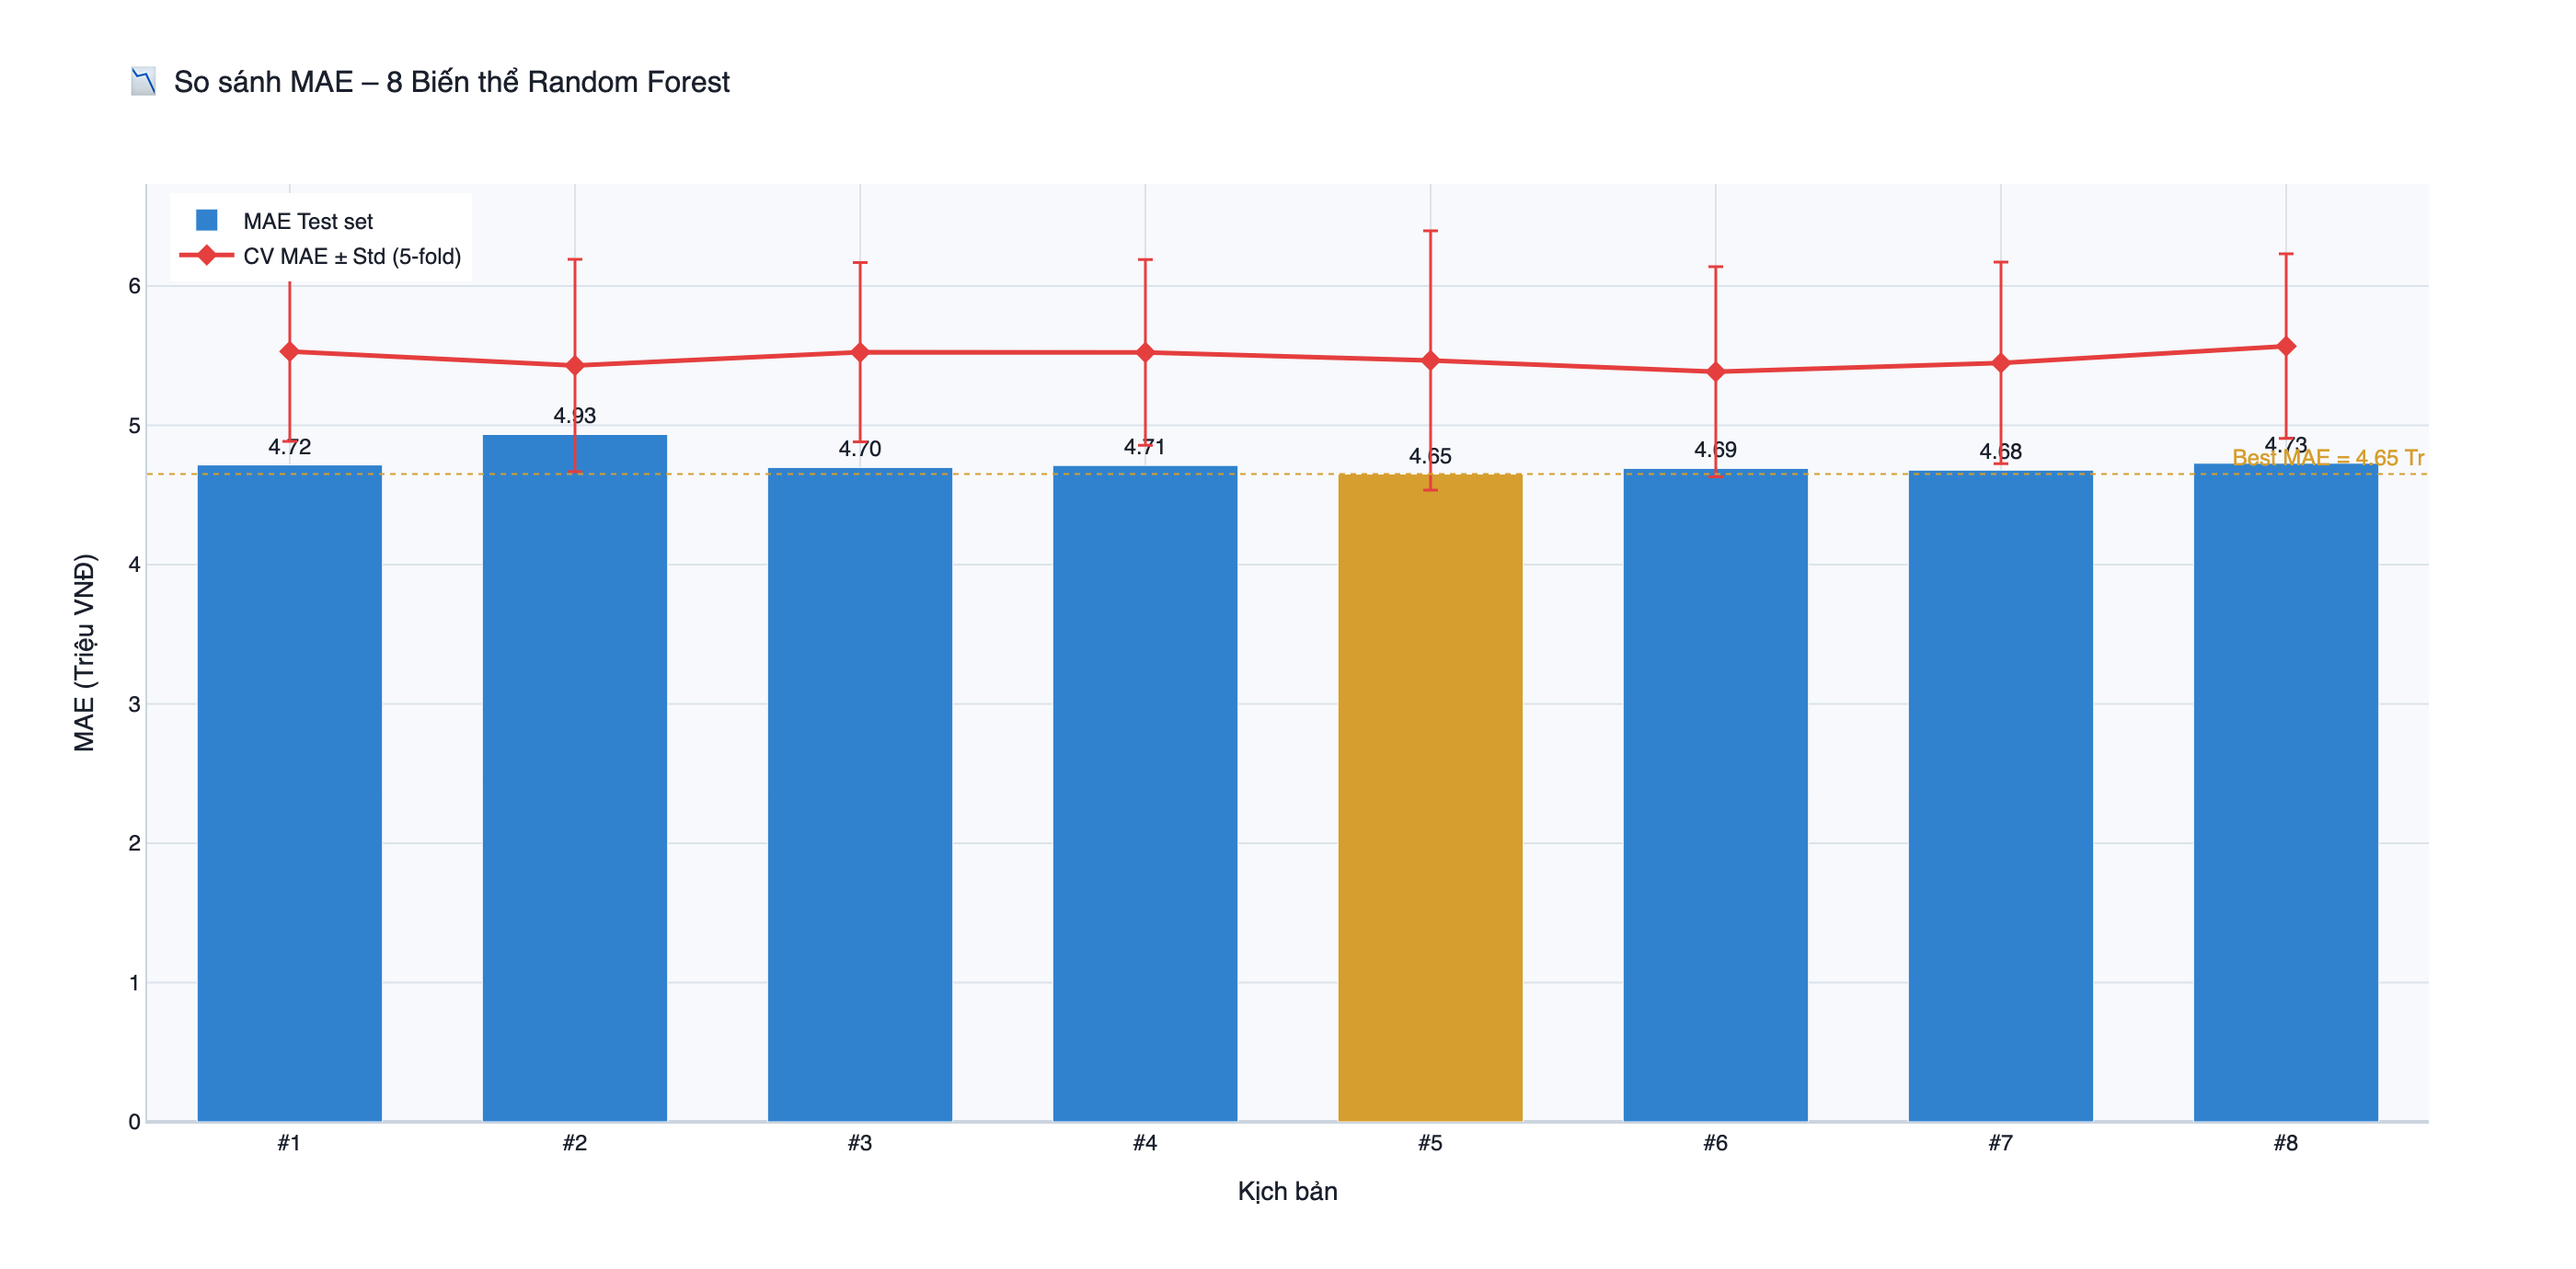
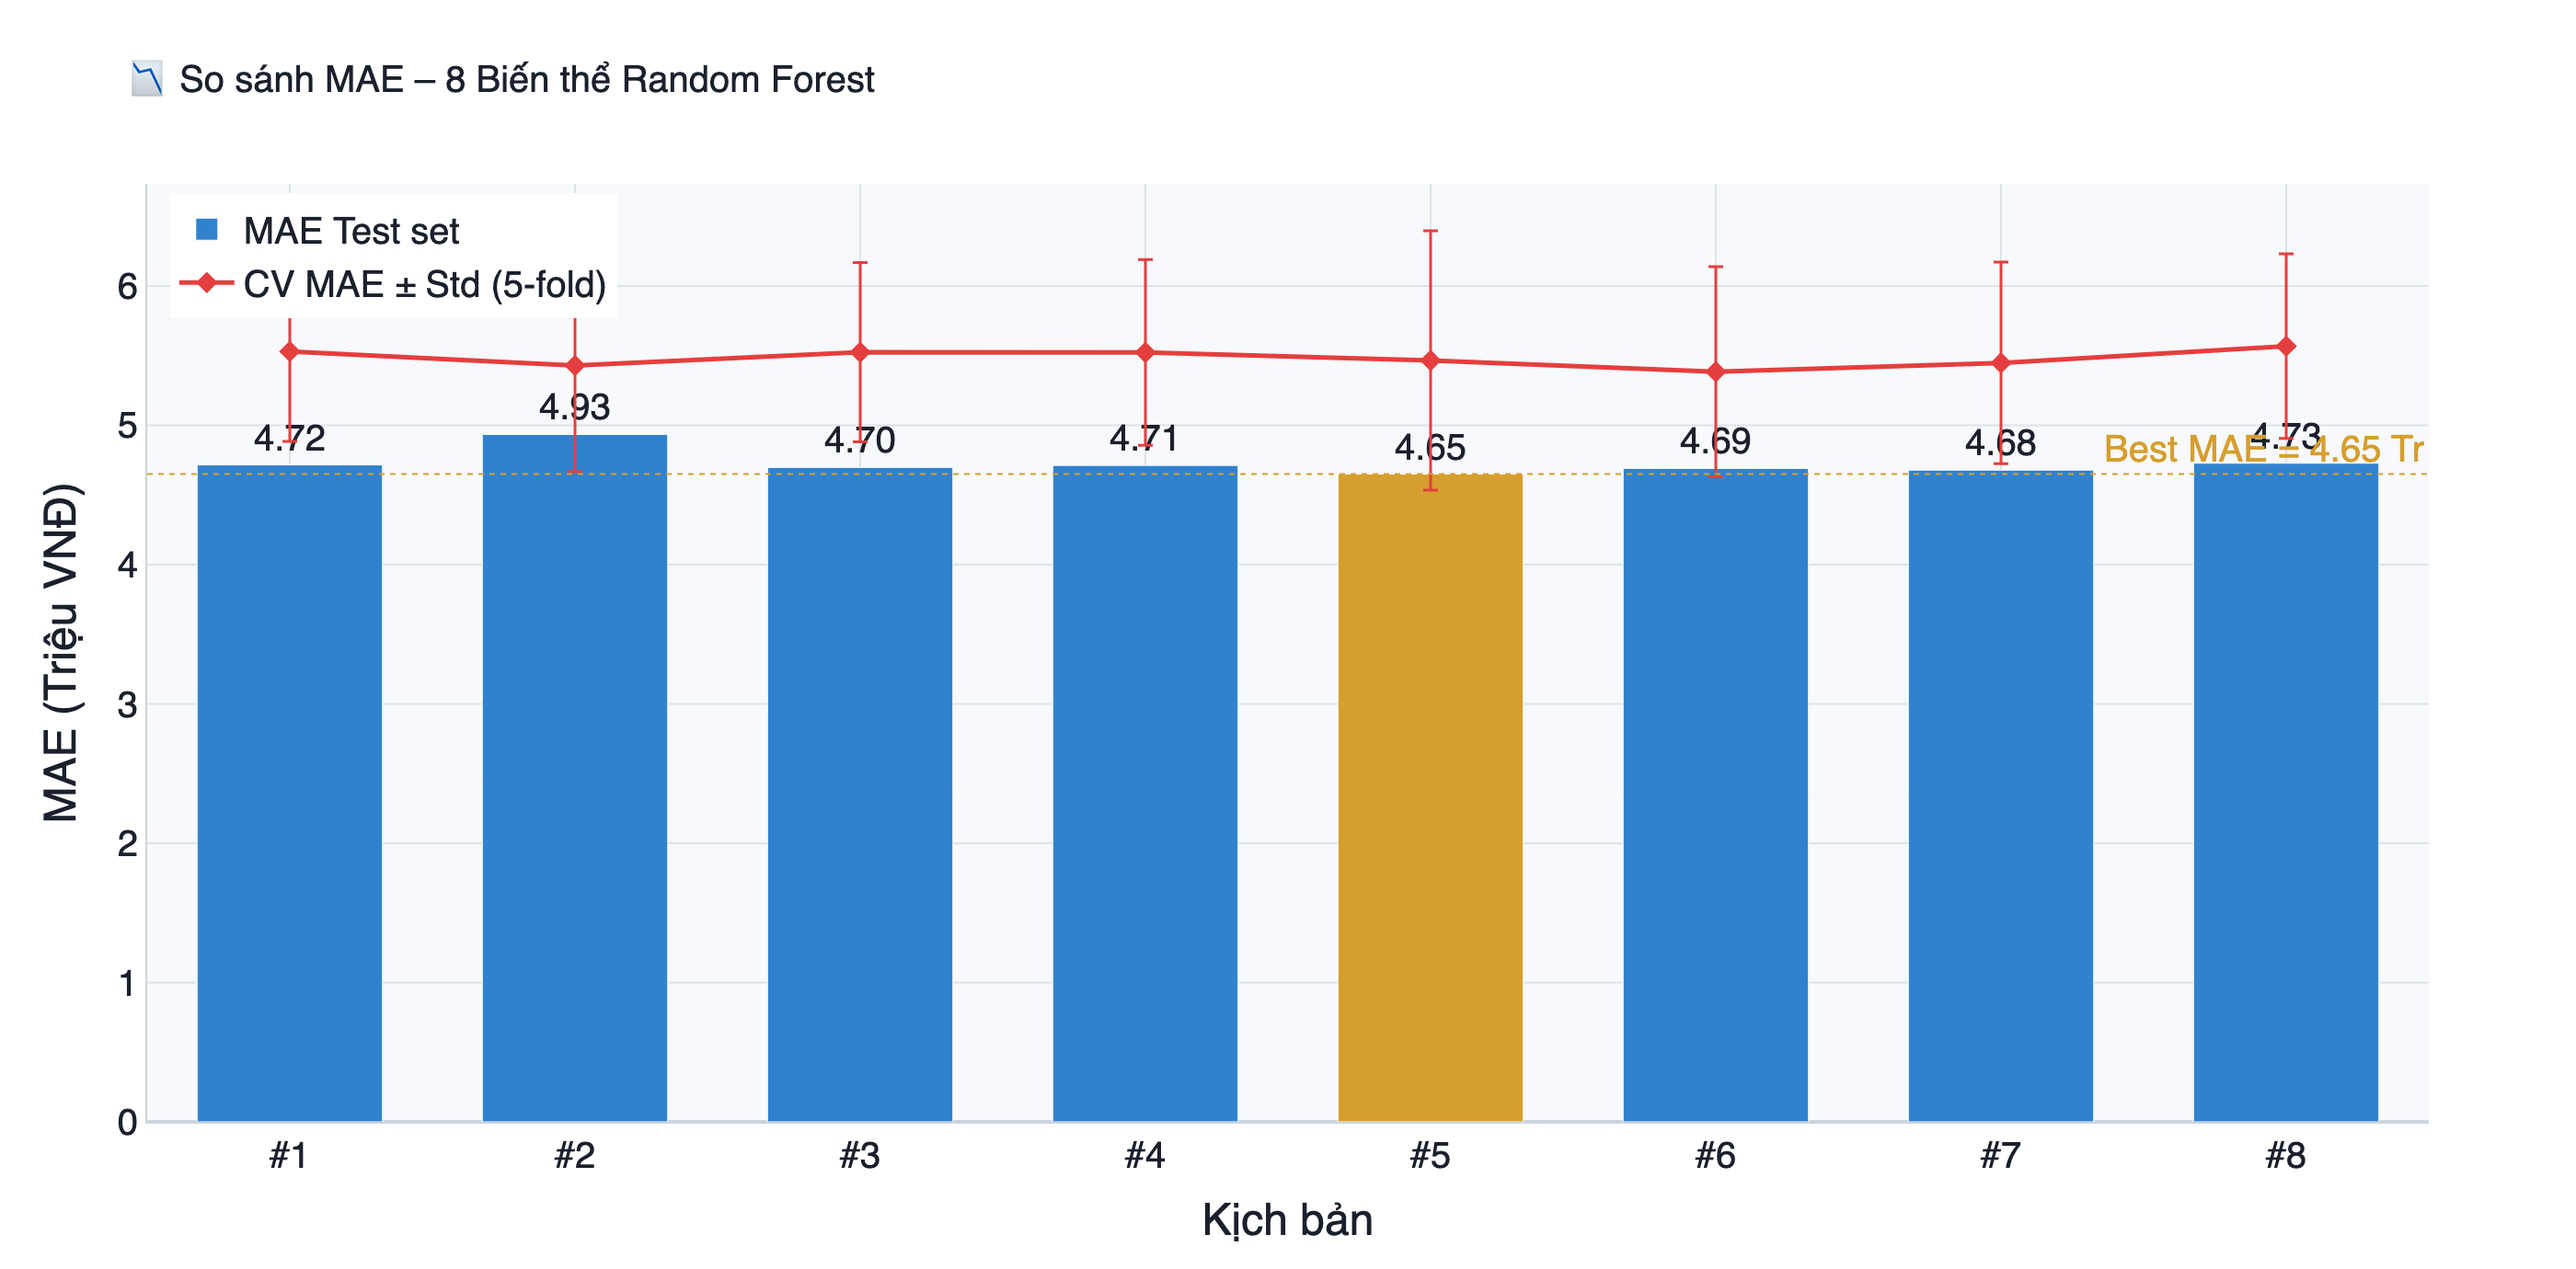
update

diff --git a/modules/model_gen_charts.py b/modules/model_gen_charts.py
@@ -35,7 +35,7 @@ from plotly.subplots import make_subplots
 # ─── Palette trắng / sáng ──────────────────────────────────────────────────────────────────────────────
 _PAPER_BG  = "#ffffff"
 _PLOT_BG   = "#f7f9fc"
-_FONT      = dict(color="#1a202c", family="Inter, sans-serif")
+_FONT      = dict(color="#1a202c", family="Inter, sans-serif", size=20)
 _BLUE      = "#3182ce"
 _GOLD      = "#d69e2e"
 _GREEN     = "#38a169"
@@ -120,7 +120,7 @@ def plot_mae_comparison(results: list[dict], best_result: dict) -> go.Figure:
 
     fig.update_layout(
         **_base_layout(height=460),
-        title=dict(text="📉 So sánh MAE – 8 Biến thể Random Forest", font=dict(size=16)),
+        title=dict(text="📉 So sánh MAE – 8 Biến thể Random Forest", font=dict(size=20)),
         xaxis_title="Kịch bản",
         yaxis_title="MAE (Triệu VNĐ)",
         legend=dict(x=0.01, y=0.99),
@@ -155,7 +155,7 @@ def plot_r2_comparison(results: list[dict], best_result: dict) -> go.Figure:
 
     fig.update_layout(
         **_base_layout(height=400),
-        title=dict(text="📈 Hệ số R² (%) – Khả năng giải thích phương sai giá", font=dict(size=16)),
+        title=dict(text="📈 Hệ số R² (%) – Khả năng giải thích phương sai giá", font=dict(size=20)),
         xaxis_title="Kịch bản",
         yaxis_title="R² (%)",
         yaxis=dict(range=[0, 115]),
@@ -192,7 +192,7 @@ def plot_mape_comparison(results: list[dict], best_result: dict) -> go.Figure:
 
     fig.update_layout(
         **_base_layout(height=400),
-        title=dict(text="📉 Sai số phần trăm tương đối trung bình MAPE (%) – 8 Biến thể", font=dict(size=16)),
+        title=dict(text="📉 Sai số phần trăm tương đối trung bình MAPE (%) – 8 Biến thể", font=dict(size=20)),
         xaxis_title="Kịch bản",
         yaxis_title="MAPE (%)",
         bargap=0.35,
@@ -270,7 +270,7 @@ def plot_actual_vs_predicted(
     title_suffix = f" – {scenario_name}" if scenario_name else ""
     fig.update_layout(
         **_base_layout(height=430),
-        title=dict(text=f"🎯 Actual vs Predicted{title_suffix}", font=dict(size=16)),
+        title=dict(text=f"🎯 Actual vs Predicted{title_suffix}", font=dict(size=20)),
         xaxis_title="Giá thực tế (Triệu VNĐ)",
         yaxis_title="Giá dự đoán (Triệu VNĐ)",
         legend=dict(x=0.01, y=0.99),
@@ -322,7 +322,7 @@ def plot_feature_importance(
     title_suffix = f" – {scenario_name}" if scenario_name else ""
     fig.update_layout(
         **_base_layout(height=380),
-        title=dict(text=f"🌿 Feature Importance{title_suffix}", font=dict(size=16)),
+        title=dict(text=f"🌿 Feature Importance{title_suffix}", font=dict(size=20)),
         xaxis_title="Mức độ quan trọng",
         annotations=[dict(
             x=0.99, y=0.02, xref="paper", yref="paper",
@@ -374,7 +374,7 @@ def plot_residuals(
     title_suffix = f" – {scenario_name}" if scenario_name else ""
     fig.update_layout(
         **_base_layout(height=380),
-        title=dict(text=f"📊 Phân phối Sai số (Residuals){title_suffix}", font=dict(size=16)),
+        title=dict(text=f"📊 Phân phối Sai số (Residuals){title_suffix}", font=dict(size=20)),
         xaxis_title="Sai số dự đoán (Triệu VNĐ)",
         yaxis_title="Số lượng laptop",
         showlegend=False,
@@ -445,7 +445,7 @@ def plot_learning_curve(df, test_size: float = 0.2) -> go.Figure:
 
     fig.update_layout(
         **_base_layout(height=420),
-        title=dict(text="📈 Learning Curve – MAE theo số lượng cây", font=dict(size=16)),
+        title=dict(text="📈 Learning Curve – MAE theo số lượng cây", font=dict(size=20)),
         xaxis_title="Số lượng cây (n_estimators)",
         yaxis_title="MAE (Triệu VNĐ)",
         legend=dict(x=0.7, y=0.95),
@@ -465,7 +465,16 @@ def plot_scenario_heatmap(results: list[dict]) -> go.Figure:
 
     Metrics: MAE (Test), CV MAE, R²
     """
-    sc_names = [f"#{r['scenario']['id']} {r['scenario']['name']}" for r in results]
+    def _format_sc_name(r):
+        sid  = r['scenario']['id']
+        name = r['scenario']['name']
+        # Kịch bản #5,6: tách phần tham số ra dòng riêng
+        if (sid == 5 or sid == 6) and '(' in name:
+            base, params = name.split('(', 1)
+            return f"#{sid} {base.strip()}<br>({params}"
+        return f"#{sid} {name}"
+
+    sc_names = [_format_sc_name(r) for r in results]
     metrics  = ["MAE (Test)", "MAPE (%)", "R² (%)"]
 
     # Chuẩn hóa min-max mỗi metric về [0, 1] để so sánh trên cùng thang
@@ -503,8 +512,8 @@ def plot_scenario_heatmap(results: list[dict]) -> go.Figure:
         x=metrics,
         y=sc_names,
         text=text,
-        texttemplate="%{text}",
-        textfont=dict(size=11, color="white"),
+        texttemplate="<b>%{text}</b>",
+        textfont=dict(size=25, color="white"),
         colorscale="RdYlGn",
         showscale=True,
         colorbar=dict(
@@ -517,10 +526,10 @@ def plot_scenario_heatmap(results: list[dict]) -> go.Figure:
     ))
 
     fig.update_layout(
-        **_base_layout(height=420),
+        **_base_layout(height=480),
         title=dict(
             text="🗺 Heatmap Hiệu năng – 8 Kịch bản × 3 Metrics (chuẩn hóa)",
-            font=dict(size=16),
+            font=dict(size=20),
         ),
         xaxis=dict(side="top"),
         margin=dict(l=260),
